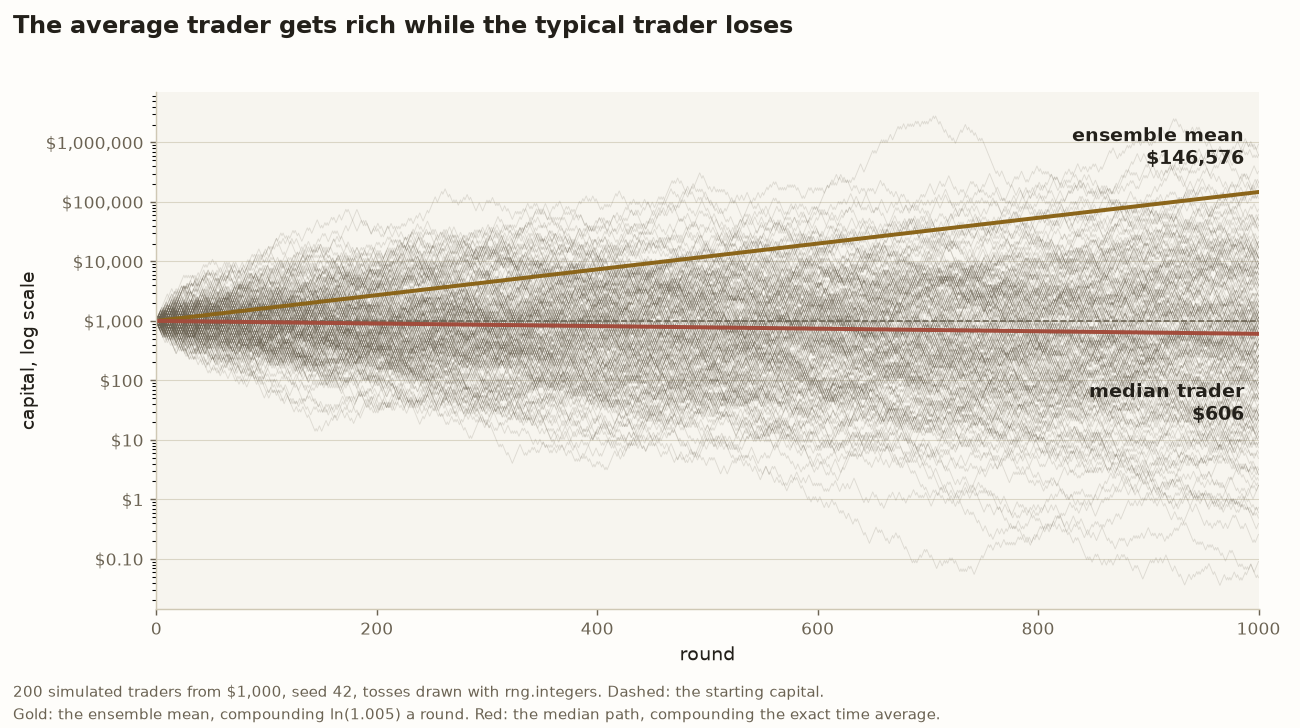
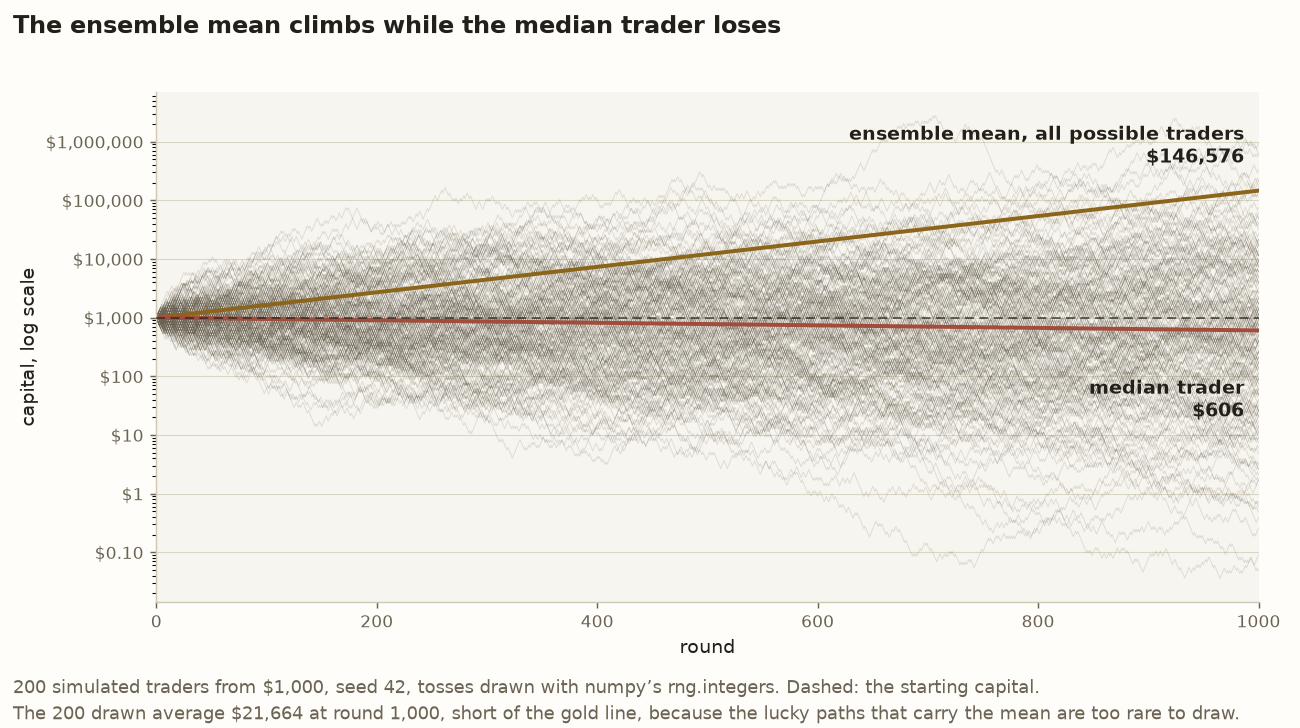
fix(chan): apply the review of the coin-toss figures
- The fan's gold line is the mean over every possible trader, while the
  200 paths drawn average $21,664 and only 3.5% end above it. The label
  and note now say so, and the test pins both, because a reader would
  otherwise take the gold line for the average of the grey ones.
- The paths title named an "average trader", which Lesson 1 says the mean
  does not describe. It now names the ensemble mean and the median trader.
  The stake title states its finding. All three titles are pinned.
- Two dollar signs in the new inset title turned the text between them
  into an italic formula. Math parsing is now off for every figure, and
  a test holds that.
- The inset title and the note's head-count range were typed by hand.
  Both are computed now and asserted.
- Inset and note text is larger, for a figure read at about 700px wide.
- Alt texts escape the dollar sign and use curly apostrophes, the stake
  caption no longer reads as if 1/10 sits at 1/11, README no longer counts
  two figures, and the embed sweep now names the price-spread post too.

diff --git a/src/chan/coin_flip_figures.py b/src/chan/coin_flip_figures.py
@@ -1,7 +1,7 @@
 """Three figures for the coin-flip gamble, drawn for the blog post about it.
 
 ``blog/coin-toss-expected-value-vs-growth.md`` makes its argument in numbers,
-and the owner asked on 2026-09-29 for pictures that land it. Each figure below
+and the owner asked on 2026-09-29 for pictures that show it. Each figure below
 draws one lesson from quantities :mod:`chan.coin_flip_growth` already computes,
 so a figure can only be wrong by drawing the wrong thing, which
 ``tests/test_coin_flip_figures.py`` checks.
@@ -22,7 +22,8 @@ This reopens a row of the considered-and-rejected register in
 cost of keeping copies in step. The owner chose all three figures knowing
 that, and the row now records the reversal.
 
-None of the figures reads a vintage, for the reason the gamble reads none.
+None of the figures reads a vintage, because the gamble is arithmetic on a
+known coin rather than market data.
 Regenerate after any change that moves what they draw::
 
     uv run python -m chan.coin_flip_figures
@@ -30,10 +31,12 @@ Regenerate after any change that moves what they draw::
 
 from __future__ import annotations
 
+import functools
 import math
 from dataclasses import dataclass
 from pathlib import Path
 
+import matplotlib
 import numpy as np
 from matplotlib.figure import Figure
 from matplotlib.ticker import FuncFormatter, PercentFormatter
@@ -91,6 +94,22 @@ class Balances:
     share_at_or_above_mean: float
 
 
+def _plain_text(make):
+    """Draw with matplotlib's math parsing off, so a dollar sign is a dollar sign.
+
+    Every label here prints dollars, and two dollar signs in one string turn
+    the text between them into an italic formula. The inset title did exactly
+    that on its first draw.
+    """
+
+    @functools.wraps(make)
+    def draw(*args, **kwargs):
+        with matplotlib.rc_context({"text.parse_math": False}):
+            return make(*args, **kwargs)
+
+    return draw
+
+
 def _dollars(x: float, _pos: object = None) -> str:
     """A tick label in whole dollars, or cents below one dollar."""
     if x >= 1:
@@ -116,7 +135,7 @@ def _style(ax) -> None:
 
 def _title(fig: Figure, title: str, note: str) -> None:
     fig.suptitle(title, x=0.01, ha="left", color=INK, fontsize=13.5, fontweight="bold")
-    fig.text(0.01, 0.012, note, color=MUTED, fontsize=8.5, linespacing=1.5)
+    fig.text(0.01, 0.012, note, color=MUTED, fontsize=10, linespacing=1.45)
 
 
 def stake_curve(points: int = 441) -> StakeCurve:
@@ -164,6 +183,7 @@ def _save(fig: Figure, out: Path | None, name: str) -> Figure:
     return fig
 
 
+@_plain_text
 def make_stake_figure(out: Path | None = None) -> Figure:
     """Growth per round against the stake, with three stakes marked."""
     curve = stake_curve()
@@ -217,22 +237,24 @@ def make_stake_figure(out: Path | None = None) -> Figure:
     ax.set_ylabel("growth per round, exact", color=INK, fontsize=10.5)
     _title(
         fig,
-        "The same coin grows or shrinks capital depending on the stake",
+        "Chan’s stake of 1/10 shrinks capital, and a stake of 1/22 grows it fastest",
         "Fair coin, heads pays 1.1 times the stake, tails loses it. "
-        "Growth is ½ ln(1 + 1.1f) + ½ ln(1 − f) for a stake f. "
+        "Growth is ½ ln(1 + 1.1f) + ½ ln(1 − f) for a stake f.\n"
         "Shaded green where capital grows, red where it shrinks.",
     )
-    fig.tight_layout(rect=(0, 0.04, 1, 0.96))
+    fig.tight_layout(rect=(0, 0.07, 1, 0.96))
     fig.curve = curve
     return _save(fig, out, STAKE_FIGURE)
 
 
+@_plain_text
 def make_paths_figure(out: Path | None = None, seed: int = BOOK_SEED) -> Figure:
     """A fan of seeded capital paths with the ensemble mean and the median path."""
     logs = _flip_log_returns(ROUNDS, FAN_PATHS, seed, WIN, LOSS, START_CAPITAL)
     paths = START_CAPITAL * np.exp(np.cumsum(logs, axis=1))
     paths = np.hstack([np.full((FAN_PATHS, 1), START_CAPITAL), paths])
     rounds = np.arange(ROUNDS + 1)
+    sample_mean = float(paths[:, -1].mean())
     moments = gamble_moments()
     mean = START_CAPITAL * np.exp(moments.ensemble_log_growth * rounds)
     median = START_CAPITAL * np.exp(moments.growth_exact * rounds)
@@ -245,12 +267,12 @@ def make_paths_figure(out: Path | None = None, seed: int = BOOK_SEED) -> Figure:
 
     for path in paths:
         ax.plot(rounds, path, color=MUTED, lw=0.5, alpha=0.18)
-    ax.axhline(START_CAPITAL, color=MUTED, lw=0.9, ls="--")
+    ax.axhline(START_CAPITAL, color=INK, lw=1, ls=(0, (5, 3)), alpha=0.7, zorder=3)
     ax.plot(rounds, mean, color=ACCENT, lw=2.2)
     ax.plot(rounds, median, color=LOST, lw=2.2)
 
     ax.annotate(
-        f"ensemble mean\n{_dollars(mean[-1])}",
+        f"ensemble mean, all possible traders\n{_dollars(mean[-1])}",
         (ROUNDS, mean[-1]),
         xytext=(-8, 12),
         textcoords="offset points",
@@ -278,19 +300,21 @@ def make_paths_figure(out: Path | None = None, seed: int = BOOK_SEED) -> Figure:
     ax.set_ylabel("capital, log scale", color=INK, fontsize=10.5)
     _title(
         fig,
-        "The average trader gets rich while the typical trader loses",
-        f"{FAN_PATHS} simulated traders from $1,000, seed {seed}, tosses drawn with rng.integers. "
-        "Dashed: the starting capital.\n"
-        "Gold: the ensemble mean, compounding ln(1.005) a round. "
-        "Red: the median path, compounding the exact time average.",
+        "The ensemble mean climbs while the median trader loses",
+        f"{FAN_PATHS} simulated traders from $1,000, seed {seed}, tosses drawn with numpy’s "
+        "rng.integers. Dashed: the starting capital.\n"
+        f"The {FAN_PATHS} drawn average {_dollars(sample_mean)} at round {ROUNDS:,}, short of the "
+        "gold line, because the lucky paths that carry the mean are too rare to draw.",
     )
-    fig.tight_layout(rect=(0, 0.06, 1, 0.96))
+    fig.tight_layout(rect=(0, 0.07, 1, 0.96))
     fig.paths = paths
+    fig.sample_mean = sample_mean
     fig.mean = mean
     fig.median = median
     return _save(fig, out, PATHS_FIGURE)
 
 
+@_plain_text
 def make_distribution_figure(out: Path | None = None) -> Figure:
     """The probability of each reachable balance after 1,000 rounds, on a log axis."""
     b = final_balances()
@@ -314,7 +338,7 @@ def make_distribution_figure(out: Path | None = None) -> Figure:
         width=x * half / 1.02 - x / half * 1.02,
         align="edge",
         color=[LOST if v < START_CAPITAL else GOOD for v in x],
-        alpha=0.75,
+        alpha=0.8,
         lw=0,
     )
 
@@ -346,7 +370,7 @@ def make_distribution_figure(out: Path | None = None) -> Figure:
         inset.spines[side].set_visible(False)
     for side in ("left", "bottom"):
         inset.spines[side].set_color(RULE)
-    inset.tick_params(colors=MUTED, labelsize=8)
+    inset.tick_params(colors=MUTED, labelsize=10)
     near = [ROUNDS // 2 - 1, ROUNDS // 2]
     for h in near:
         colour = LOST if b.balance[h] < START_CAPITAL else GOOD
@@ -359,7 +383,7 @@ def make_distribution_figure(out: Path | None = None) -> Figure:
             ha="left",
             va="bottom",
             color=INK,
-            fontsize=8.5,
+            fontsize=10,
         )
     inset.axvline(b.approximated, color=INK, lw=1.2, ls=":")
     inset.annotate(
@@ -370,13 +394,19 @@ def make_distribution_figure(out: Path | None = None) -> Figure:
         ha="right",
         va="center",
         color=INK,
-        fontsize=8.5,
+        fontsize=10,
     )
-    inset.set_xlim(470, 660)
+    inset.set_xlim(470, 690)
+    inset.set_xticks([500, 550, 600, 650])
     inset.set_ylim(0, b.probability[near[1]] * 1.45)
     inset.set_yticks([])
     inset.xaxis.set_major_formatter(FuncFormatter(_dollars))
-    inset.set_title("zoomed: no balance at $599", color=INK, fontsize=9, loc="left")
+    inset.set_title(
+        f"zoomed near $600: no balance at {_dollars(b.approximated)}",
+        color=INK,
+        fontsize=10,
+        loc="left",
+    )
     fig.inset = inset
 
     ax.set_ylim(0, peak * 1.3)
@@ -388,12 +418,12 @@ def make_distribution_figure(out: Path | None = None) -> Figure:
         fig,
         f"{b.share_below_start:.1%} of traders end below $1,000, "
         f"and {b.share_at_or_above_mean:.1%} reach the ensemble mean",
-        "Every balance 1,000 rounds can reach, one bar per head count from 440 to 560, "
-        "with its binomial probability. Red bars end below the starting capital.\n"
-        "The inset zooms in on the 499-head and 500-head balances, where the continuous "
-        "approximation compounds to a balance no head count gives.",
+        f"One bar per head count from {low} to {high}, with its binomial probability. "
+        "Red bars end below the starting capital.\n"
+        "The mean is an average, not a balance any head count gives, and neither is the "
+        "approximation’s balance in the inset.",
     )
-    fig.tight_layout(rect=(0, 0.06, 1, 0.96))
+    fig.tight_layout(rect=(0, 0.07, 1, 0.96))
     fig.balances = b
     return _save(fig, out, DISTRIBUTION_FIGURE)
 

diff --git a/tests/test_coin_flip_figures.py b/tests/test_coin_flip_figures.py
@@ -96,6 +96,11 @@ class TestTheStakeFigure:
             pytest.approx((0.1, -0.00050025), abs=5e-9),
         ]
 
+    def test_the_title_states_the_finding(self, stake) -> None:
+        assert stake._suptitle.get_text() == (
+            "Chan’s stake of 1/10 shrinks capital, and a stake of 1/22 grows it fastest"
+        )
+
     def test_each_mark_is_labelled_with_its_own_numbers(self, stake) -> None:
         labels = _texts(stake.axes[0])
         assert labels == [
@@ -128,7 +133,28 @@ class TestThePathsFigure:
         assert paths.median[-1] == pytest.approx(1000.0 * (1.11 * 0.90) ** 500, rel=1e-12)
 
     def test_the_labels_carry_those_two_balances(self, paths) -> None:
-        assert _texts(paths.axes[0]) == ["ensemble mean\n$146,576", "median trader\n$606"]
+        assert _texts(paths.axes[0]) == [
+            "ensemble mean, all possible traders\n$146,576",
+            "median trader\n$606",
+        ]
+
+    def test_the_title_names_the_mean_and_the_median(self, paths) -> None:
+        """Lesson 1 says the mean describes the crowd rather than any trader,
+        so the title names the ensemble mean rather than an average trader."""
+        assert paths._suptitle.get_text() == (
+            "The ensemble mean climbs while the median trader loses"
+        )
+
+    def test_the_drawn_paths_average_well_short_of_the_ensemble_mean(self, paths) -> None:
+        """The gold line is the mean over every possible trader, and the 200
+        drawn fall far short of it, which is Lesson 6's point. The note says
+        so, because a reader would otherwise take the gold line for the
+        average of the grey ones."""
+        assert paths.sample_mean == pytest.approx(21_664, abs=0.5)
+        assert paths.sample_mean == pytest.approx(paths.paths[:, -1].mean(), rel=1e-12)
+        assert np.mean(paths.paths[:, -1] > paths.mean[-1]) == pytest.approx(0.035)
+        (note,) = [t.get_text() for t in paths.texts if t is not paths._suptitle]
+        assert "average $21,664 at round 1,000" in note
 
     def test_the_note_names_the_seed_and_the_draw_method(self, paths) -> None:
         (note,) = [t.get_text() for t in paths.texts if t is not paths._suptitle]
@@ -208,6 +234,23 @@ class TestTheDistributionFigure:
         assert stems[0] < dotted < stems[1]
         assert inset.get_xlim()[0] < stems[0] and stems[1] < inset.get_xlim()[1]
         assert _texts(inset) == ["499 heads\n$492", "500 heads\n$606", "$599, the\napproximation"]
+        assert inset.get_title(loc="left") == "zoomed near $600: no balance at $599"
+
+    def test_the_note_names_the_range_the_bars_cover(self, distribution) -> None:
+        low, high = HEADS_SHOWN
+        (note,) = [t.get_text() for t in distribution.texts if t is not distribution._suptitle]
+        assert f"One bar per head count from {low} to {high}" in note
+        assert (low, high) == (440, 560)
+
+    def test_no_label_is_parsed_as_math(self, stake, paths, distribution) -> None:
+        """Two dollar signs in one matplotlib string turn the text between
+        them into an italic formula, which the inset title did on its first
+        draw. Every text artist here is drawn with math parsing off."""
+        for fig in (stake, paths, distribution):
+            texts = [*fig.texts]
+            for ax in fig.axes:
+                texts += [*ax.texts, ax.title, ax._left_title]
+            assert all(not text.get_parse_math() for text in texts)
 
 
 class TestTheCommittedImagesAreThoseFigures:

diff --git a/tests/test_markdown_hygiene.py b/tests/test_markdown_hygiene.py
@@ -1044,6 +1044,7 @@ class TestTheFigureHasThreeCopies:
             "gld-gdx-cointegration-lessons.md",
             "replication-log.md",
             "coin-toss-expected-value-vs-growth.md",
+            "price-spread-mean-reversion.md",
         }, "a surface that embeds a figure went unread, so this checks less than it says"
         for path, embed in embeds:
             target = (path.parent / embed).resolve()

diff --git a/blog/coin-toss-expected-value-vs-growth.md b/blog/coin-toss-expected-value-vs-growth.md
@@ -64,7 +64,7 @@ That \$606 is also where the median path ends. After an even number of rounds it
 
 The gap is carried by a few lucky paths. A trader who happens to throw far more heads than tails ends up enormously rich, and those rare fortunes pull the mean up. Almost nobody lives on those paths. The mean describes the crowd’s total wealth, and it says very little about any one member of the crowd.
 
-![Bar chart of every balance 1,000 rounds can reach, on a log axis from under a cent to over a hundred million dollars, with the share of traders reaching each. The bars form a bell centred near the median of $606, which sits just left of the $1,000 starting line. The ensemble mean of $146,576 sits far out on the right tail. An inset zooms in on the 499-head and 500-head balances, $492 and $606, with the approximation's $599 falling between them.](../docs/figures/coin_flip_final_balances.png)
+![Bar chart of every balance 1,000 rounds can reach, on a log axis from under a cent to over a hundred million dollars, with the share of traders reaching each. The bars form a bell centred near the median of \$606, which sits just left of the \$1,000 starting line. The ensemble mean of \$146,576 sits far out on the right tail. An inset zooms in on the 499-head and 500-head balances, \$492 and \$606, with the approximation’s \$599 falling between them.](../docs/figures/coin_flip_final_balances.png)
 
 *Every balance 1,000 rounds can reach, and the share of traders who reach it. 56.3% end below the \$1,000 they started with, and only 4.7% reach the ensemble mean.*
 
@@ -72,9 +72,9 @@ The gap is carried by a few lucky paths. A trader who happens to throw far more 
 
 Neither average changes with the number of rounds. The ensemble rate is +0.0049875 per round at round 10 and at round 1,000, and the time average is −0.00050025 at both. A report that prints the two rates shows a disagreement in sign and nothing more.
 
-![Two hundred simulated capital paths over 1,000 rounds on a log scale, spreading from $1,000 into a fan between a few cents and a few million dollars. A gold line for the ensemble mean climbs steadily to $146,576. A red line for the median trader drifts down to $606.](../docs/figures/coin_flip_capital_paths.png)
+![Two hundred simulated capital paths over 1,000 rounds on a log scale, spreading from \$1,000 into a fan between a few cents and a few million dollars. A gold line for the ensemble mean climbs steadily to \$146,576. A red line for the median trader drifts down to \$606.](../docs/figures/coin_flip_capital_paths.png)
 
-*Two hundred simulated traders. The gold line compounds the ensemble rate and the red line compounds the time average. The dashed line is the \$1,000 each trader started with.*
+*Two hundred simulated traders. The gold line compounds the ensemble rate and the red line compounds the time average. The dashed line is the \$1,000 each trader started with. The 200 drawn here average \$21,664 at round 1,000, well short of the gold line, for the reason Lesson 6 gives.*
 
 What pulls apart is the capital they compound into. The ratio of ensemble capital to time-average capital grows by the same factor every round. That factor is set by the difference between the two log rates, 0.005488 per round.
 
@@ -120,9 +120,9 @@ Two stakes on this curve matter.
 1. **Growth is zero** at a stake of `(b − 1)/b`, which is 1/11 for Chan’s coin. His stake of 1/10 sits just past that line, which is why the growth rate is a small negative number rather than a large one.
 2. **Growth is highest** at `(b − 1)/(2b)`, which is 1/22. At that stake the time average is +0.0011351 per round.
 
-![A curve of growth per round against the stake, from 0% to 11% of capital. It rises from zero to a peak of +0.0011351 at a stake of 1/22, falls back through zero at 1/11, and turns negative. Chan's stake of 1/10 sits just below zero at −0.00050025. The region above zero is shaded green and the region below it red.](../docs/figures/coin_flip_growth_by_stake.png)
+![A curve of growth per round against the stake, from 0% to 11% of capital. It rises from zero to a peak of +0.0011351 at a stake of 1/22, falls back through zero at 1/11, and turns negative. Chan’s stake of 1/10 sits just below zero at −0.00050025. The region above zero is shaded green and the region below it red.](../docs/figures/coin_flip_growth_by_stake.png)
 
-*The same coin at every stake. Growth peaks at 1/22 and turns negative past 1/11, which is where Chan’s 1/10 sits.*
+*The same coin at every stake. Growth peaks at 1/22 and turns negative past 1/11. Chan’s 1/10 sits on the negative side.*
 
 The best stake is exactly half the break-even stake, and that factor of two is a property of any even-odds coin rather than of Chan’s numbers. A coin whose win pays 1.5 times the stake peaks at a stake of 1/6 and breaks even at 1/3.
 

diff --git a/README.md b/README.md
@@ -356,8 +356,9 @@ rest, in `TestTheStakeDecidesTheSign`. Four of its figures are not pinned here.
    its docstring and does not assert the percentage.
 
 Every other number in the post traces to an assertion in
-[tests/test_coin_flip_growth.py](tests/test_coin_flip_growth.py), or, for the
-two shares its distribution figure prints, in
+[tests/test_coin_flip_growth.py](tests/test_coin_flip_growth.py). The numbers
+the figures print, including the two shares in the distribution figure's title
+and the \$21,664 the fan's 200 paths average, trace to
 [tests/test_coin_flip_figures.py](tests/test_coin_flip_figures.py).
 
 The post carries three figures, drawn from the gamble's own arithmetic by
@@ -406,7 +407,7 @@ uv run pytest
 ```
 
 `matplotlib` is a dev dependency rather than a runtime one. No replication
-needs it. It is there so the two committed figures can be redrawn and checked.
+needs it. It is there so the committed figures can be redrawn and checked.
 
 `uv sync` fetches `ithildincore` from GitHub, so the first sync needs a
 network. Every run after that reads the cache, and no replication reaches a
